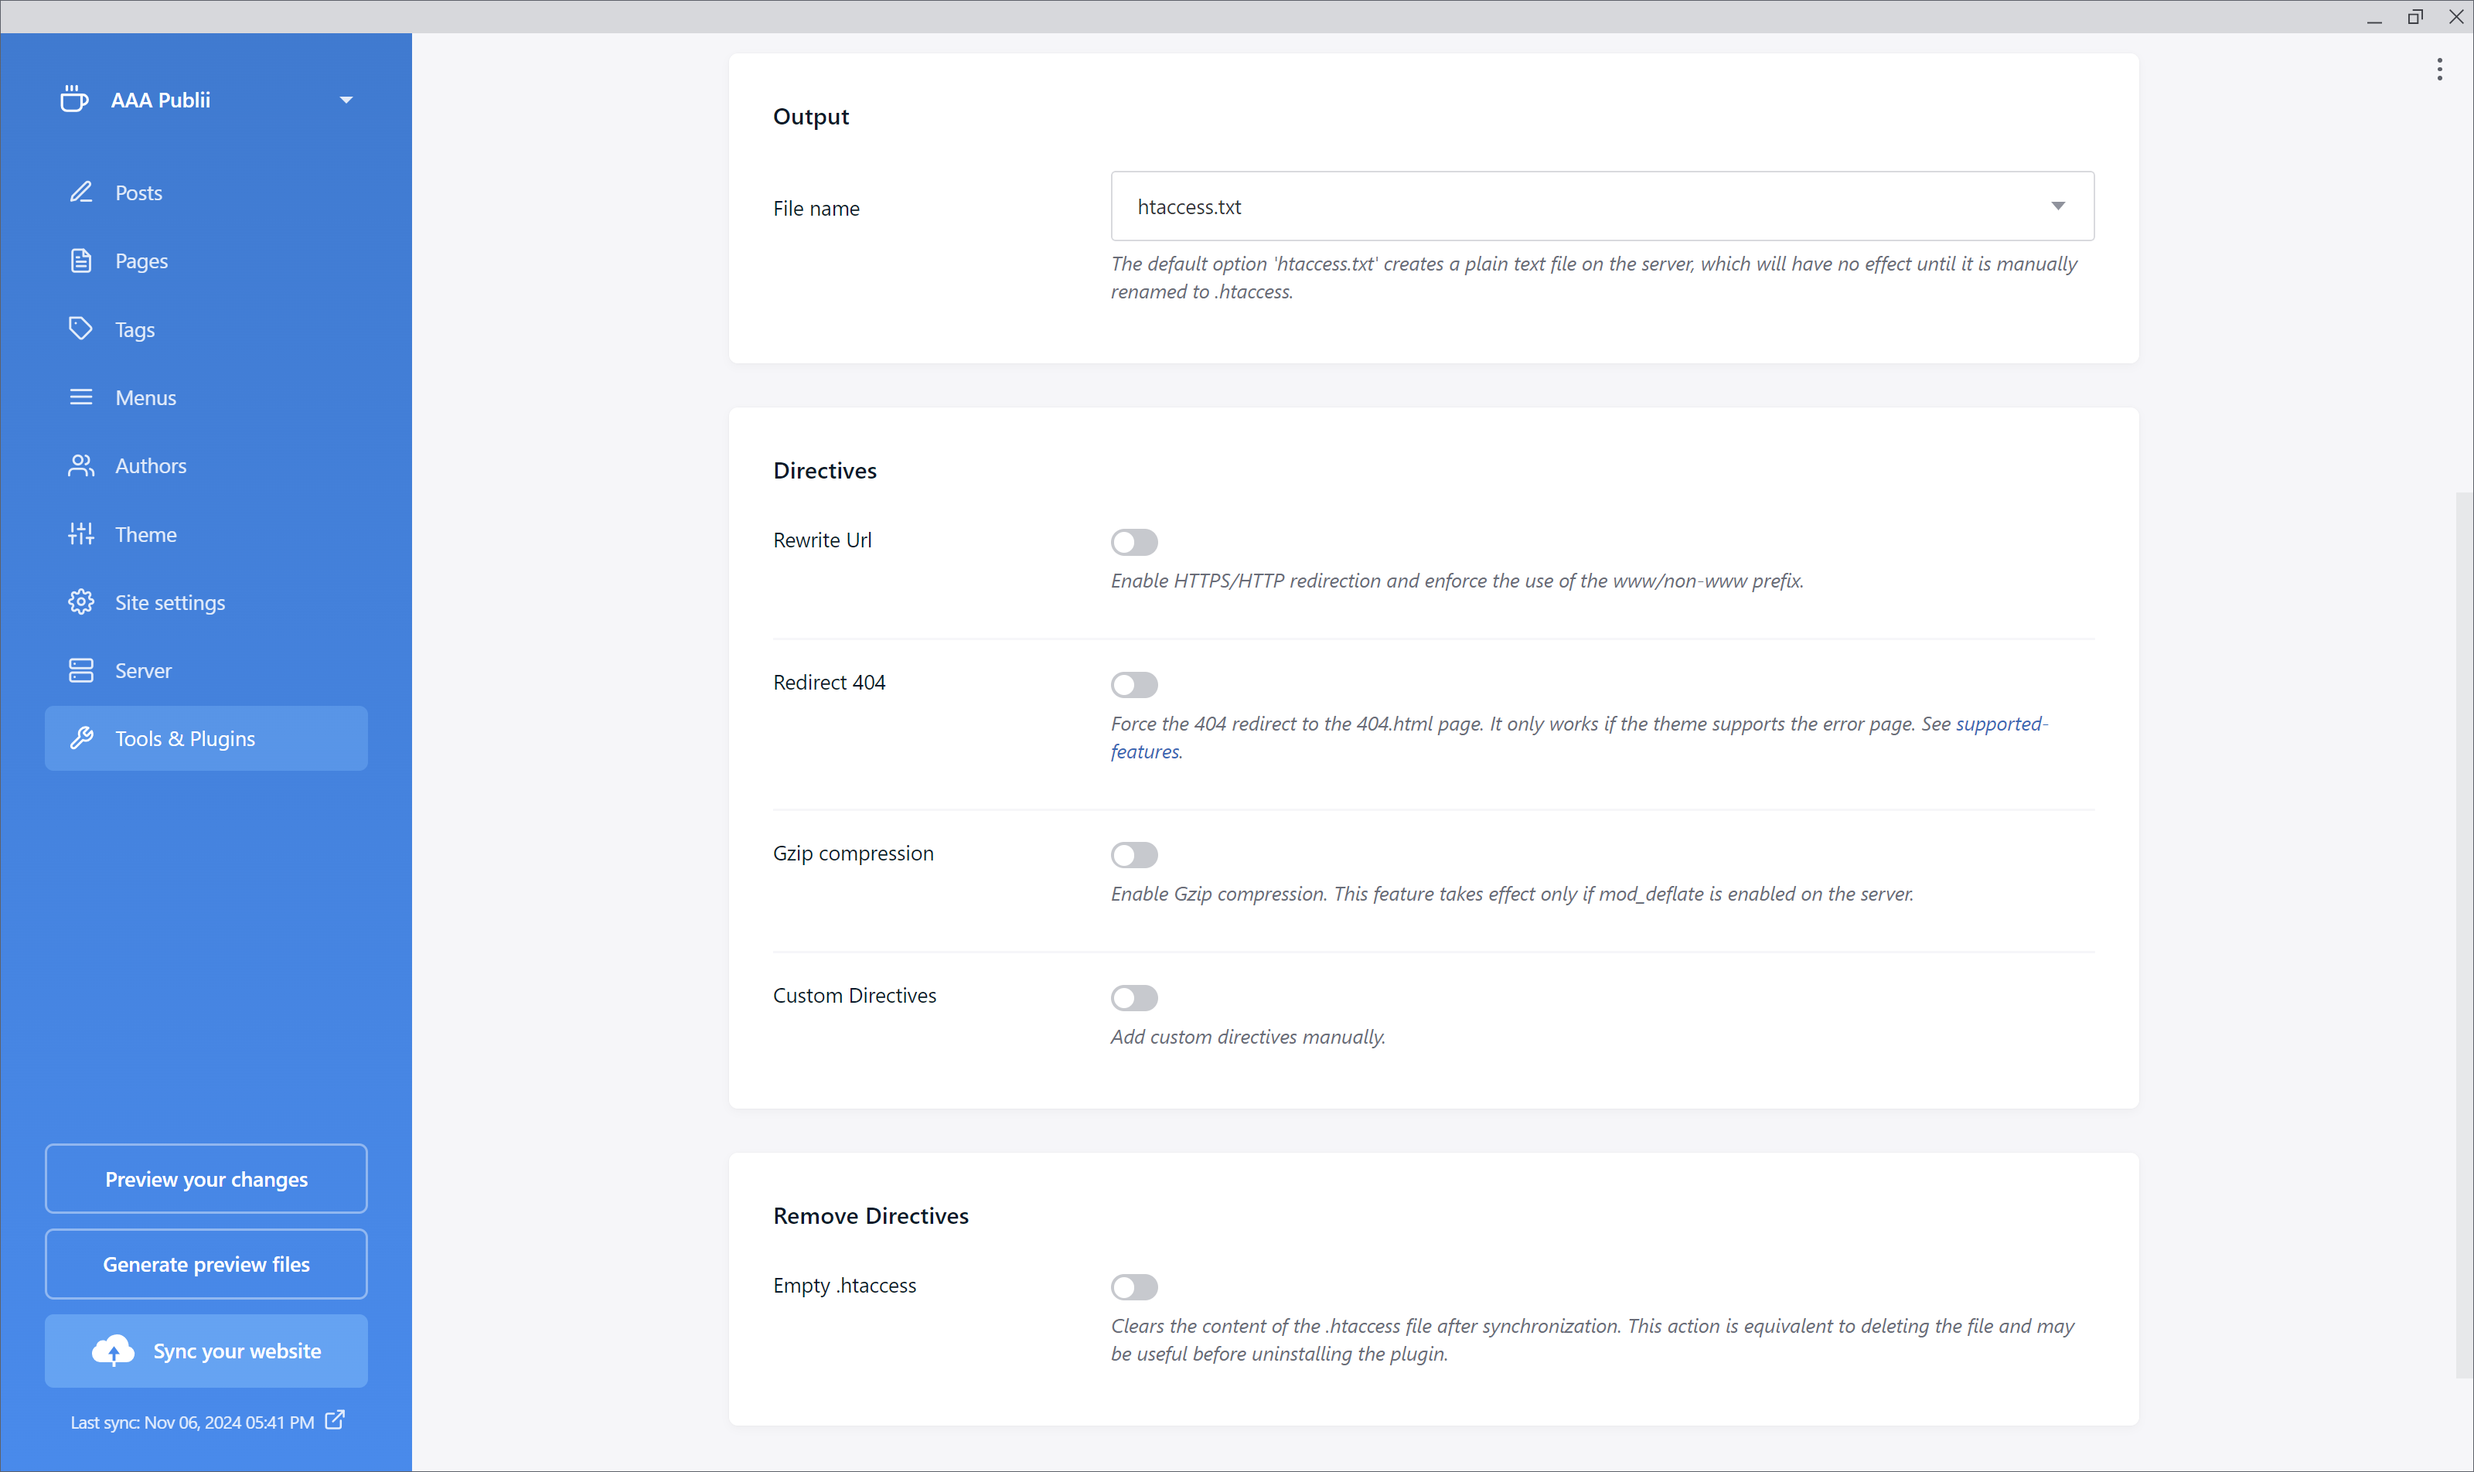
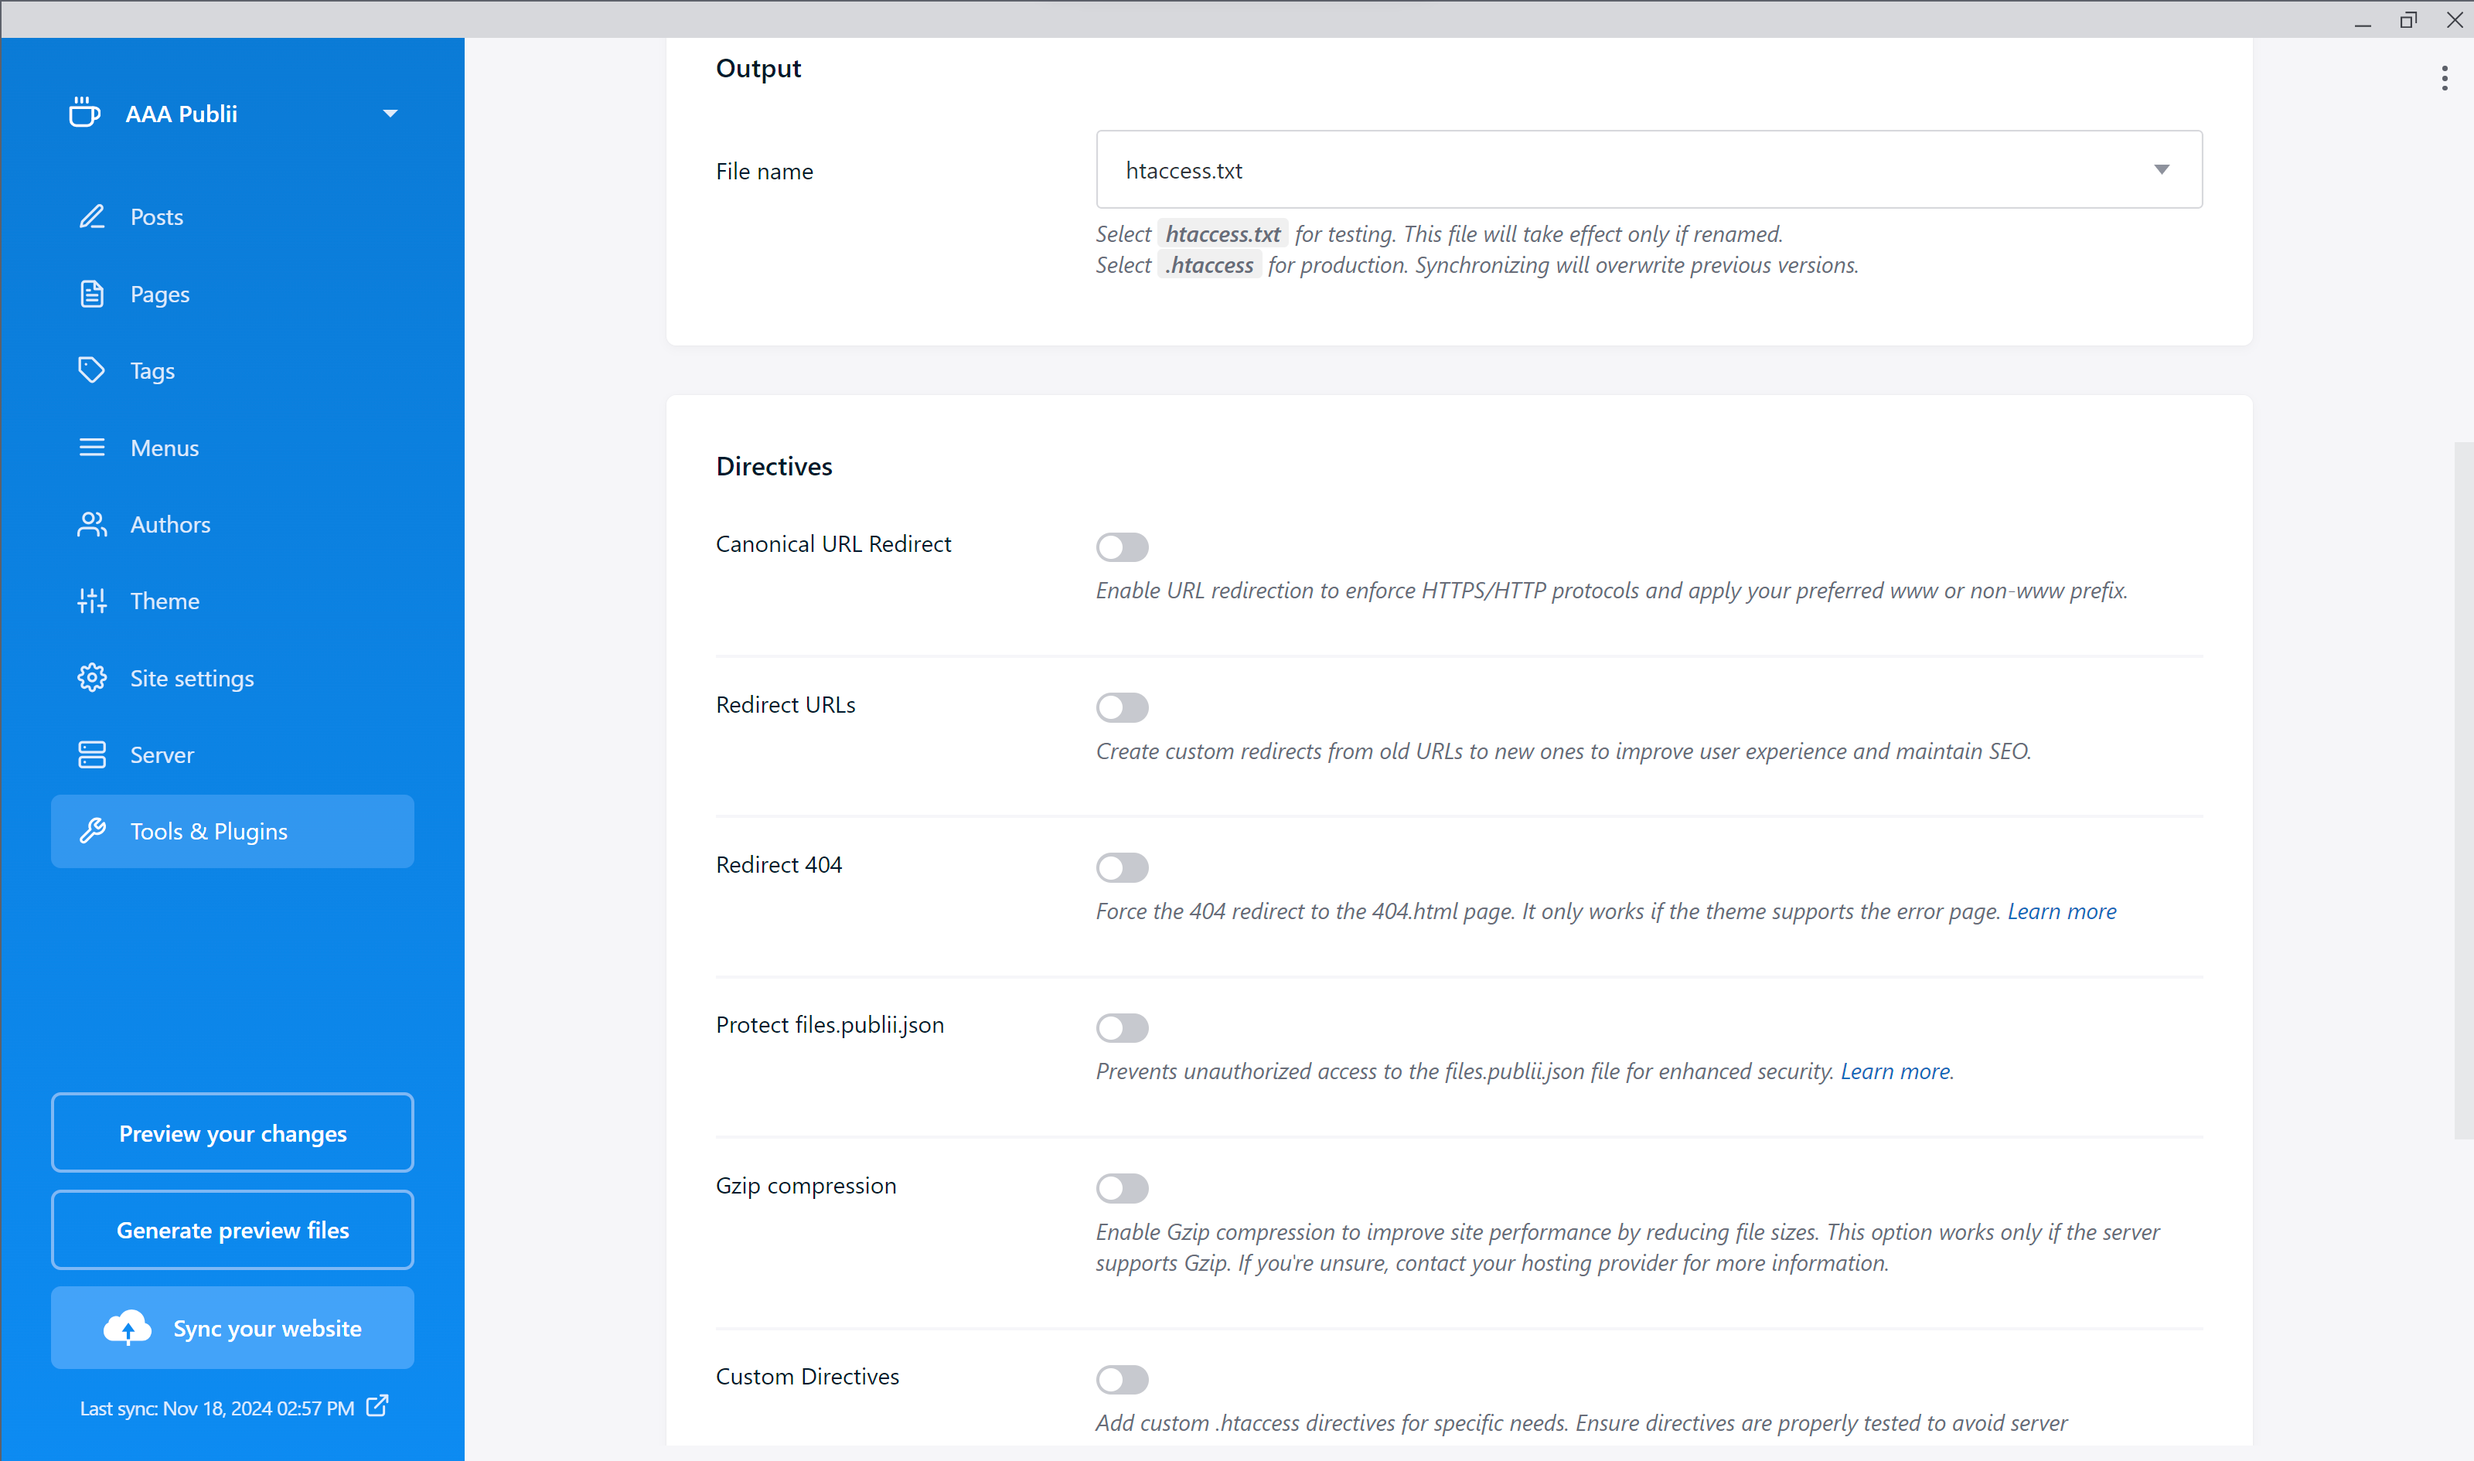
Version 0.1.0. Add Redirect URLs

diff --git a/easy-htaccess/main.js b/easy-htaccess/main.js
@@ -1,6 +1,6 @@
 // https://github.com/GetPublii/Publii/discussions/1359
 
-class MyPlugin {
+class EasyHtaccess {
     constructor (API, name, config) {
         this.API = API; 		// gives you an access to the plugins API functions
 		this.name = name; 		// retrieved plugin name - probably will be removed in the future
@@ -28,7 +28,7 @@ class MyPlugin {
 			return
 		}
 
-		//Rewrite URL
+		//Canonical URL redirect
 		let rewriteUrl = ''
 		if (this.config.rewriteUrl) {
 			rewriteUrl = 
@@ -144,6 +144,22 @@ class MyPlugin {
 				
 		}
 
+		//Rewrite SEO Urls
+		let redirectSeo = ""
+		if (this.config.redirectSeo) {
+			let urls = []	// Initialize the array to store redirect strings
+			if (Array.isArray(this.config.repeaterUrlList)) {
+				this.config.repeaterUrlList.forEach((elements) => {
+					const redirect = `Redirect ${elements.type} ${elements.oldUrl} ${elements.newUrl}` 
+					urls.push(redirect) // Add the redirect string to the array
+				});
+				// Build the final redirectSeo string with custom text before and after
+				redirectSeo = "	# Redirect URLs\n"
+				redirectSeo += urls.join("\n"); // Combine all redirect strings with newline
+				redirectSeo += "\n\n";
+			}
+		}
+
 		//Custom 404 Error Page
 		let error404 = ""
 		let subfolder = this.config.path404
@@ -193,7 +209,8 @@ class MyPlugin {
 			`
 		}
 
-		content = rewriteUrl + error404 + protectFileList + gzip + custom 
+		//Write directives in appropriate order
+		content = gzip + rewriteUrl + redirectSeo + error404 + protectFileList + custom 
 		content = content
 			.replace(/[ \t]+/g, ' ')    // Removes double spaces and tabs, replacing them with a single space
 			.replace(/^[ \t]+/gm, '')   // Removes spaces and tabs at the beginning of each line
@@ -206,5 +223,4 @@ class MyPlugin {
 	
 }
 
-
-module.exports = MyPlugin;
+module.exports = EasyHtaccess;

diff --git a/easy-htaccess/plugin-options.css b/easy-htaccess/plugin-options.css
@@ -1,0 +1,14 @@
+/*
+This file customizes the plugin's style within the CMS Publii.
+It is activated by setting "useCustomCssForOptions": true in plugin.json
+*/
+
+span.mark {
+    font-weight:600;
+    background-color: rgb(240, 240, 240);
+    padding: 0 5px;
+    border-radius: 3px;
+}
+input[type="text"] {
+    height:4.8rem;
+}

diff --git a/README.md b/README.md
@@ -24,19 +24,24 @@ The plugin allows for selecting multiple options. These options will only take e
 - **`htaccess.txt`**  creates a plain text file on the server, which will remain inactive until manually renamed to .htaccess. This is a safe option that allows you to review the file before making it operational.  
 - **`.htaccess`**  directly creates the .htaccess file, overwriting any previous versions.
 
-### Rewrite URL 
+### Canonical URL redirect 
 Enable HTTPS/HTTP redirection and enforce the use of the www or non-www prefix. Various rewrite combinations are available for flexibility.
 
-### Redirect 404 
-Force 404 redirects to the `404.html` page. This works only if the theme supports error pages. [Learn more about supported features](https://getpublii.com/dev/theme-supported-features/). 
+### Redirect URLs
+Set up URL redirects directly in the `.htaccess` file by specifying old and new paths. Choose between permanent (301) or temporary (302) redirects. These rules help maintain SEO rankings and prevent broken links.  
 
-Here you can specify the absolute path or the subfolder where the 404.html file is located. For example: `/home/mhd-01/mydomain.com`, `/test`, `/home/mhd/www.mydomain.net/htdocs/test`, etc. Default value: empty.
+This option uses simple redirects (technically mod_alias), so patterns and regular expressions are not supported.  
+
+### Redirect 404 
+Force 404 redirects to the `404.html` page. This works only if the theme supports error pages. [Learn more about supported features](https://getpublii.com/dev/theme-supported-features/).  
+
+You can specify either the absolute server path or the subfolder where the `404.html` file is located. For example: `/home/mhd-01/mydomain.com`, `/test`. Default value: empty.
 
 ### Protecting the files.publii.json File
 With this option, you can make the `files.publii.json` file unreachable from the outside. [More information](https://getpublii.com/docs/recommended-server-settings.html#protectingthefilespubliijsonfile).
 
 ### Gzip Compression (experimental)  
-Enable Gzip compression to reduce file sizes and improve loading times. This feature requires `mod_deflate` to be enabled on the server.
+Enable Gzip compression to improve site performance by reducing file sizes. This option works only if the server supports Gzip. If you're unsure, contact your hosting provider for more information.
 
 ### Custom Directives
 Manually add your custom directives here. These will be appended to the end of the `.htaccess` file.
@@ -45,16 +50,13 @@ Manually add your custom directives here. These will be appended to the end of t
 Reset all customizations by creating an empty `.htaccess` file. This option is effectively equivalent to deleting the file.
 
 ## Uninstalling
-Since Publii plugins do not operate directly on the server and currently cannot delete files, uninstalling or deactivating this plugin will leave the last version of the .htaccess file created by the plugin on the server. If you want to remove this file, you have two options:
+Uninstalling or deactivating this plugin will not remove the `.htaccess` file created on the server. If you want to remove it, you have two options:
 
-1. Manually delete the file directly from the server (the obvious choice).
-2. Enable the plugin option **`Empty .htaccess`**  and sync the site.
+- **Enable the plugin option `Empty .htaccess` and sync the site.**  
+  This option does not delete the `.htaccess` file but empties its contents, removing all directives. This effectively deactivates the file, making its impact equivalent to deletion.
 
-Option 2 does not actually delete the .htaccess file but empties its contents, removing all directives. This effectively deactivates the file, making its impact equivalent to deletion.
-
-Please note that the plugin also creates a local copy of the file in the site's root directory. You can find this copy as .htaccess or htaccess.txt in **`Publii > File Manager > root directory`**, which you will need to remove manually.
-
-
+- **Deactivate the plugin and manually delete the files.**  
+  You will need to remove two `.htaccess` files: the one located on the server and the local copy found in **`Publii > File Manager > root directory`**.
 
 ## Disclaimer
 This plugin is an unofficial extension for the [Publii CMS](https://getpublii.com/). I do not assume any responsibility for potential issues or malfunctions that may occur while using this plugin. Additionally, support for this plugin is not guaranteed.
